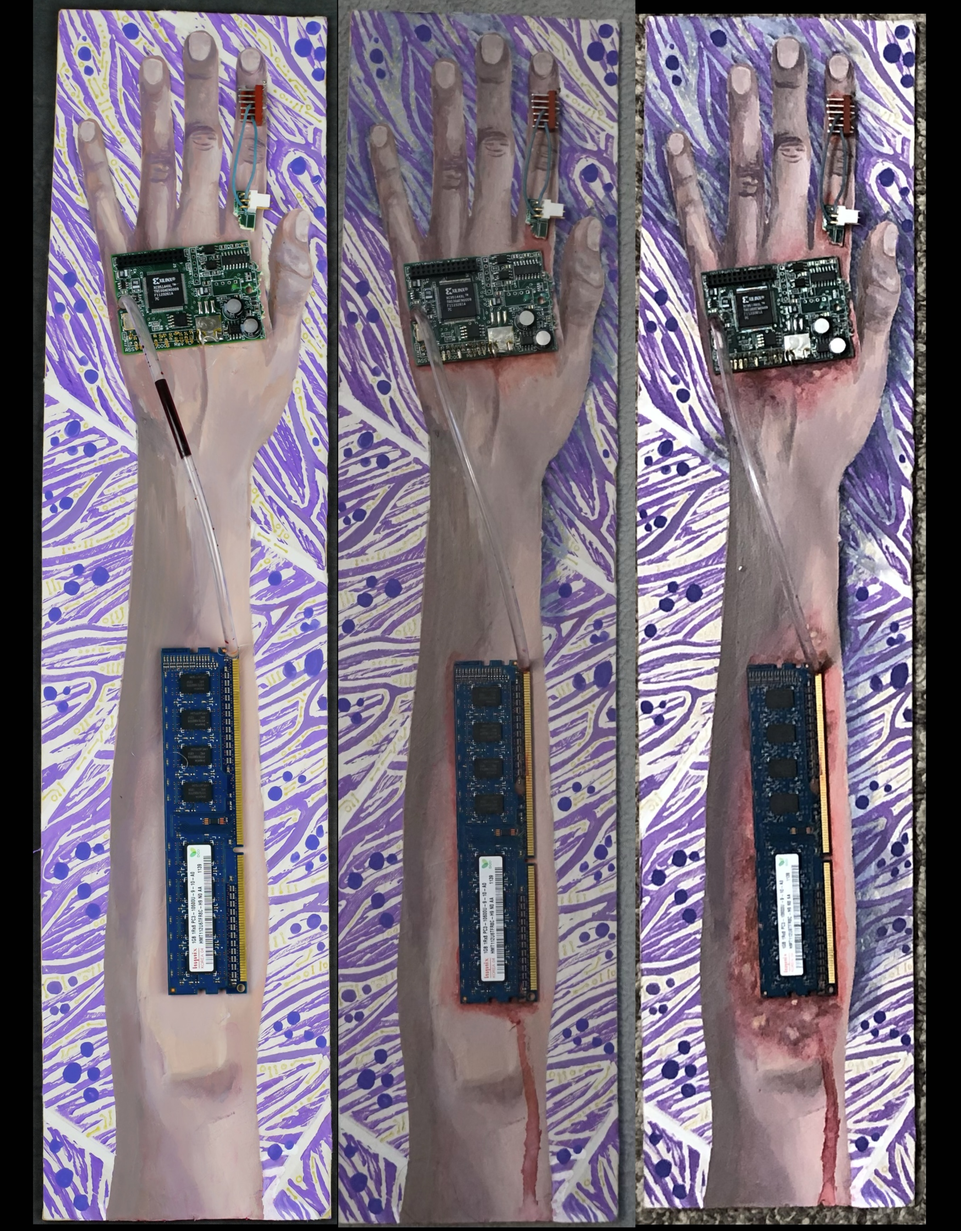
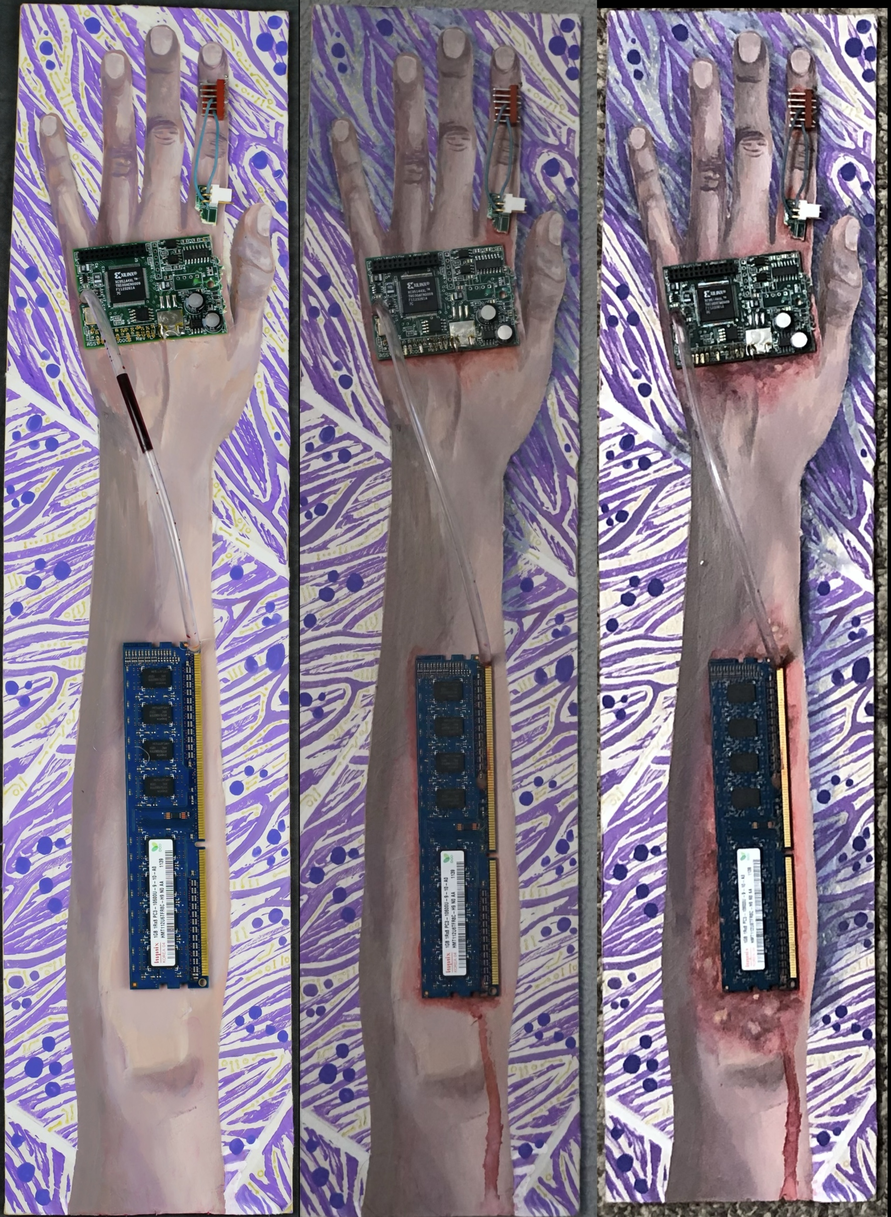
adding art!

diff --git a/art.html b/art.html
@@ -53,10 +53,15 @@
 <section class="masonry-gallery">
 
 <div class="gallery-item">
-<img src="art/eyes_series.jpg" alt="">
-<img src="art/ears_series.jpg" alt="">
-<img src="art/mouth_series.jpg" alt="">
-<div class="caption">Perception — 2022</div>
+
+  <div class="series">
+    <img src="art/eyes_series.jpg" alt="">
+    <img src="art/ears_series.jpg" alt="">
+    <img src="art/mouth_series.jpg" alt="">
+  </div>
+
+  <div class="caption">Perception — 2022</div>
+
 </div>
 
 <div class="gallery-item">

diff --git a/art.css b/art.css
@@ -54,6 +54,20 @@ transform:scale(1.02);
 
 }
 
+/* Series images displayed horizontally */
+
+.series {
+  display: flex;
+  gap: 10px;
+}
+
+.series img {
+  flex: 1;          /* ← each image takes equal share of row width */
+  width: 0;         /* ← override width:100% so flex controls sizing */
+  height: auto;
+  object-fit: cover;
+}
+
 
 /* Caption overlay */
 
